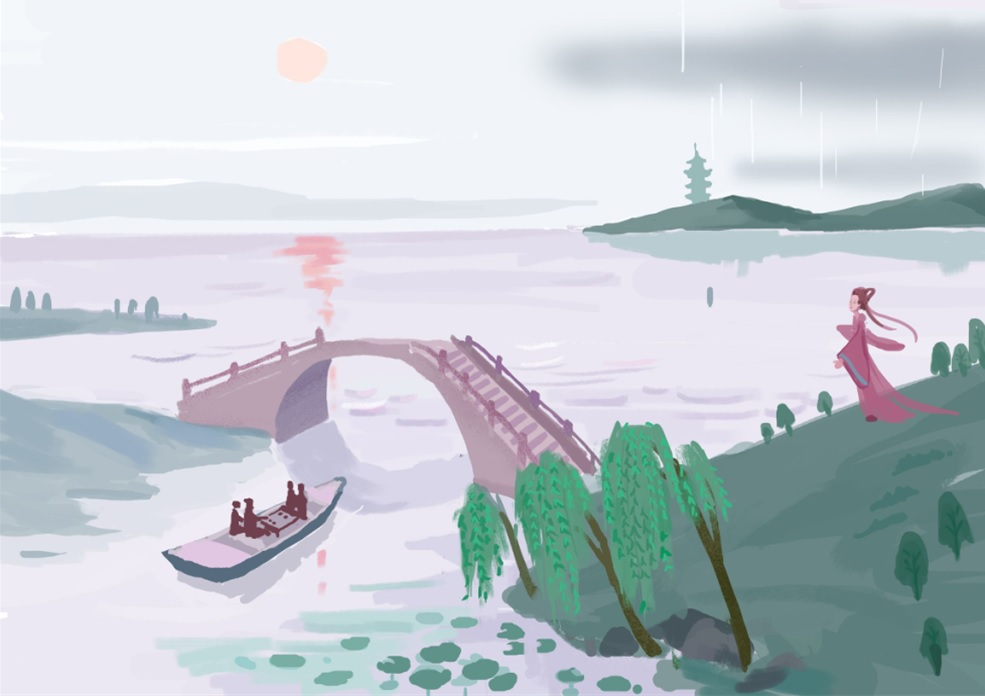
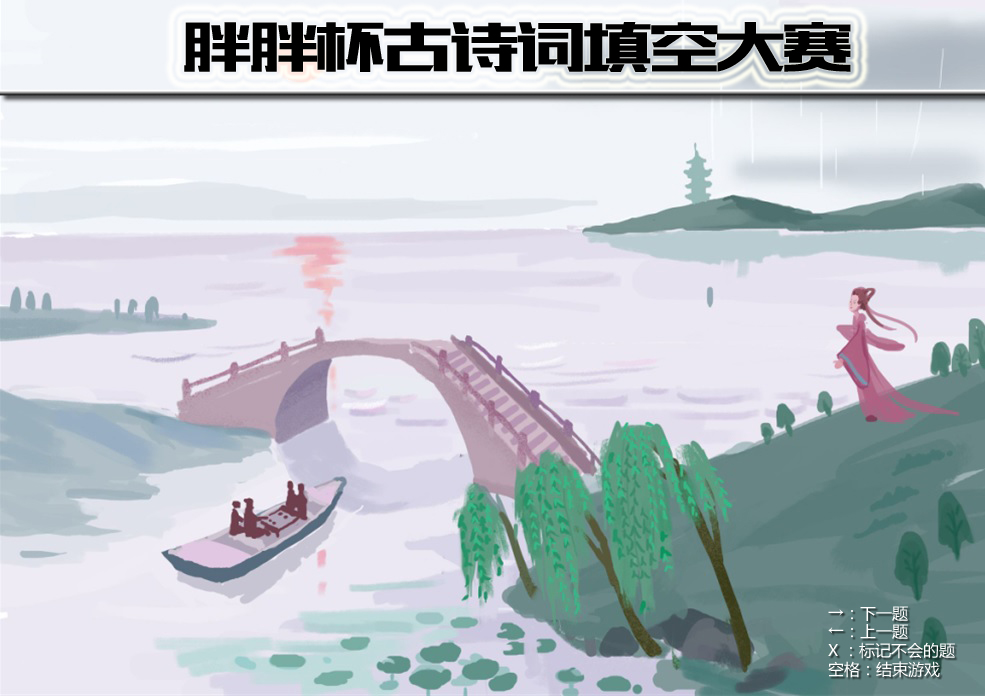
这次通过pygame来实现啦。可以使用左键，右键，X键，空格键啦！

Changed region(s): [[0.0, 0.0, 1.0, 0.1509], [0.8223, 0.875, 0.9746, 0.9957]]

diff --git a/ran.py b/ran.py
@@ -27,38 +27,40 @@ def speak(filename , str):
         time.sleep(0.3)
     pygame.mixer.music.stop()
 
-def chuti(now_list,hide):
-    k=len(now_list)  #有几句
-    n=len(now_list[0])  #一句有几个字
-    no=random.randrange(k-1)
-    s_timu = ''
-    s_out=''
-    for i in range(k-1):
-        if i != no :
-            s_out=s_out + now_list[i] + '  '
-            s_timu = s_timu + now_list[i]
-        else:
-            s_out = s_out + hide*k + '  '
-            s_timu = s_timu + '什么'
-    print (s_out)
-    text_surface = font.render(s_out, True, (0, 0, 255))
+def ShowIt(no , s_out,s_speak):
+    text_surface = font.render(str(no) + '.' + s_out, True, (0, 0, 255))
     screen.blit(background, (0, 0))
-    screen.blit(text_surface, (100, 200))
+    screen.blit(text_surface, (100, 260))
     pygame.display.update()
 
     filename=str(time.time())
     filename=filename.replace('.','k')
     filename += 'audio.mp3'
-    speak(filename , s_timu)
+    speak(filename , s_speak)
 
-def show_the_question(no):
-    global now_s , now_list ,data
+def ChuTiMu(no):  #出第no题，挑选进入now_list的列表
+    global now_s , now_list , data , all
     num = random.randrange(len(data))
     now_s = data[num].replace('。', '，')
     now_s = data[num].replace('？', '，')
     now_list = now_s.split('，')
-    print('No.%d :' % (no), end='')
-    chuti(now_list, '____')
+    k=len(now_list)  #有几句
+    n=len(now_list[0])  #一句有几个字
+    hiddenno=random.randrange(k-1)     #要隐藏的是第几句
+    s_speak = ''  #s_speak是读出来的，s_out是显示出来的
+    s_out=''
+    hide='_'
+    for i in range(k-1):
+        if i != hiddenno :
+            s_out=s_out + now_list[i] + '  '
+            s_speak = s_speak + now_list[i]
+        else:
+            s_out = s_out + hide*n + '  '
+            s_speak = s_speak + '什么'
+    all.setdefault(no, ['',''])
+    all[no] = [s_out , s_speak]   #all={1:['第一题的显示','第一题的读音']
+    print('No.%d :' % (no), s_out)
+    ShowIt(no , s_out , s_speak)
 
 if __name__ == '__main__':
     APP_ID = '11162123'
@@ -67,7 +69,7 @@ if __name__ == '__main__':
     client = AipSpeech(APP_ID, API_KEY, SECRET_KEY)
 
     a=open(r'1.txt','r',encoding='gbk').read()
-    data=a.split('\n')
+    data=a.split('\n')   #data就是所有的古诗词，一首一行
     n=len(data)
     print ('-'*100)
     print ('|                       总载入著名诗句%d句'%(n) + ' '*60 + '|')
@@ -76,12 +78,13 @@ if __name__ == '__main__':
     pygame.init()
     screen = pygame.display.set_mode((985 , 696), 0, 32)
     font = pygame.font.Font("msyhbd.ttc", 30)
-    text_surface = font.render(u"准备开始啦", True, (0, 0, 255))
+    text_surface = font.render(u"按→就可以开始啦……", True, (200, 0, 255))
     background = pygame.image.load("background1.jpg").convert()
     screen.blit(background, (0, 0))
-    screen.blit(text_surface, (100, 110))
+    screen.blit(text_surface, (100, 210))
     pygame.display.update()
-    weak=[]
+    all={}
+    weak=[]   #weak记录掌握不好的序号就可以了
     no=0
     goon = True
     while goon :
@@ -90,20 +93,27 @@ if __name__ == '__main__':
                 os.exit()
             if event.type == KEYDOWN :
                 if event.key == K_RIGHT:  # 获取键盘字母a
+                    no = len(all)
                     no +=1
-                    show_the_question(no)
-                elif event.key == K_LEFT:  # 获取键盘空格键
-                    pass
-                elif event.key == K_SPACE:  # 获取键盘左键
+                    ChuTiMu(no)  #出题no，并把这个题目append到all
+                elif event.key == K_LEFT:
+                    if no>1 :
+                        no -= 1
+                        ShowIt(no , all[no][0] , all[no][1])
+                elif event.key == K_x:
+                    weak.append(no)
+                    print (all)
+                    print (weak)
+                elif event.key == K_SPACE:
                     goon = False
 
     print (u'刚才发现你掌握不好的诗句共有 %d 句，分别是：'%(len(weak)))
     for i in range(len(weak)):
-        print (weak[i])
+        print (all[weak[i]][0])
     pygame.quit()
     path = 'audio\\'
     for i in os.listdir(path):
         path_file = os.path.join(path,i)
         if os.path.isfile(path_file):
             os.remove(path_file)
-            print('deleted ' + path_file)
+            # print('deleted ' + path_file)
